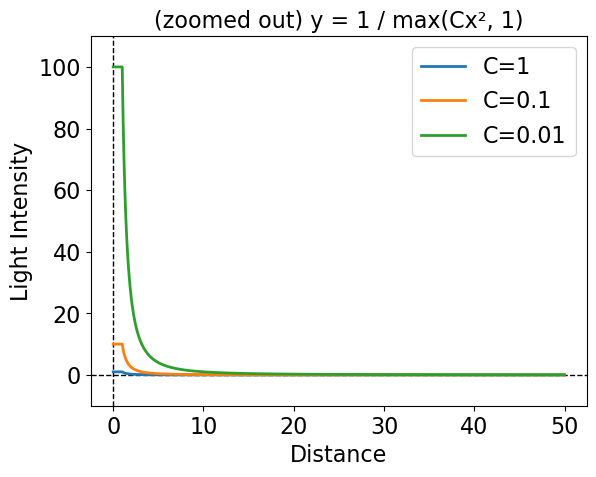
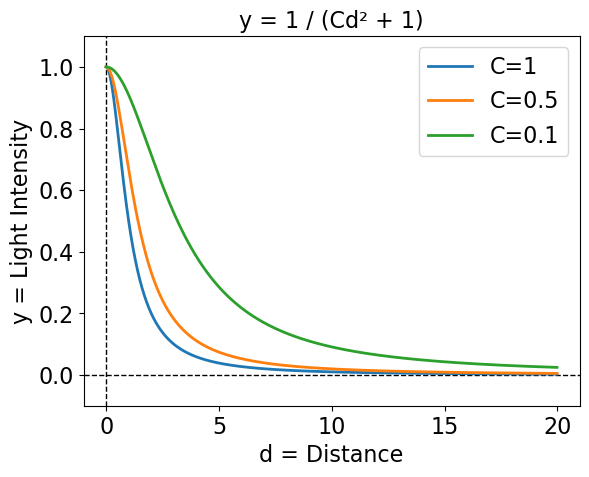
Work on lighting post

diff --git a/content/blog/fixing-a-five-year-old-lighting-bug-in-my-game-engine/index.md b/content/blog/fixing-a-five-year-old-lighting-bug-in-my-game-engine/index.md
@@ -118,20 +118,114 @@ drops off approaching 0 as the distance increases.
 
 I wanted a way of slowing down the rate with which the light diminishes so that
 it spreads out over a larger area so I added a parameter `C` which can be used
-to tune the rate with which the light diminishes, effectively stretching out the
+to tune the light diminishing rate, effectively stretching out the
 curve horizontally.
 
-![A plot of y=1/max(d², 1), where y is Light Intensity and d = Distance](plot3.png)
+![A plot of y=1/(C × max(d², 1)), where y is Light Intensity and d = Distance](plot3.png)
 
 And this was the bug. I didn't account for the fact that stretching out the
 curve horizontally would also stretch it _vertically_. Assuming the colour of
 the light is white, this will effectively clip the curve at y=1, causing
 saturation:
 
-![](plot4.png)
+![A plot of y=min(1, 1/(C × max(d², 1))), where y is Light Intensity and d = Distance](plot4.png)
 
 Visualizing with a heatmap, this has the effect of creating a large bright spot
 in the saturated region which then quickly drops off outside that region which
-matches the original symptom of this bug.
+matches the original symptom of the bug.
 
-![](map2.png)
+![A heatmap of min(1, 1/(C × max(d², 1))), where d is the distance from the
+centre and C=0.1](map2.png)
+
+My first thought for how to fix this would be stop flattening the curve below a
+distance of 1, but instead ensure that the function is defined at a distance of
+0 by _shifting_ the entire curve to the left such that it has a value of 1 at a
+distance of 0.
+
+I switched to the formula `1 / (Cd² + 1)`. Like before, `C` can be used to
+control how quickly the light diminishes. I didn't realize at the time that I
+made this change (remember I was mid game jam!) but this function changes the
+shape of the curve to be less steep around a distance of 0 as is clear in the
+following plot.
+
+![A plot of y=1/(Cd² + 1), where y is Light Intensity and d = Distance](plot5.png)
+
+Here's the new heatmap:
+
+![A heatmap of 1/(Cd² + 1), where d is the distance from the centre and
+C=0.1](map3.png)
+
+I didn't find out until revisiting the lighting maths while writing this post,
+but the shape of these curves is actually physically accurate, and I had stumbled
+upon the formula for the intensity of the light on the ground a horizontal
+distance from a light, at a fixed height. The `C` parameter controls the height
+of the light, with `C = 1/height²`.
+
+To demonstrate imagine we have a light `H` distance above the ground, and we're
+interested in finding the light intensity at a point `p` with a horizontal
+distance of `d` from the light.
+
+![Diagram showing a light `H` units above the ground, and a point `p` with a
+horizontal distance `d` from the light. A line connecting the light to `P` forms
+the hypotenuse of a triangle, labelled with `sqrt(d² + H²)`.](pythag.jpg)
+
+The line from `p` to the light is the hypotenuse of a right triangle, so the
+distance from `p` to the light is `sqrt(d² + H²)`. Now according to the inverse
+square law, the intensity of the light at `p` is proportional to `1/sqrt(d² + H²)² = 1/(d² + H²)`.
+When `d=0`, this will have the value of `1/H²` (the distance is just the height
+of the light above the ground). To match the rest of the post I'd rather the
+intensity be 1 at `d=0` so multiply the formula by `H²` to get `H²/(d² + H²)`.
+Now divide the top and bottom of this fraction by `H²` to get `1/(d²/H² + 1)`
+which is the same as `1/(Cd² + 1)` where `C = 1/H²`.
+
+The formula above was good enough for the game jam, but while working on this
+post I wanted to take things a step further. My solution was physically accurate
+for lights a given distance above the ground that shine uniformly in all
+directions, but sometimes the effect of these lights on the ground looks too
+unfocused. Occasionally I want a sharp point of light that radiates out in all
+directions, diminishing at a configurable rate. `1/d²` has the shape I want
+but it's not defined at 0, however `1/(d + 1)²` has the same shape but is
+shifted to the left such that it has the value 1 at `d=0`. To control the rate of
+diminishing, multiply `d` by the parameter `C` as before:
+
+
+![A plot of y=1/(Cd + 1)², where y is Light Intensity and d = Distance](plot6.png)
+
+The heatmap shows a much more focused point of light compared to the previous
+formula:
+
+![A heatmap of 1/(Cd + 1)², where d is the distance from the centre and C=0.1](map4.png)
+
+The final step is to combine the two different lighting formulae into a single
+formula and add a second parameter for interpolating between them.
+
+Recall that the unfocused lighting formula is `1/(d²/H² + 1)` and the focused
+formula is `1/(Cd + 1)²`. Start with the denominator of the focused formula: `(Cd + 1)²,`.
+This is equivalent to `C²d² + 2Cd + 1`, so the focused formula becomes `1/(C²d² + 2Cd + 1)`.
+Now if we replace the constant `C` with the constant expression `1/H`, the
+second formula becomes `1/(d²/H² + 2d/H + 1)` which is very similar to the
+unfocused lighting formula. The only difference is the `2d/H` term in the
+denominator. We can introduce a new parameter `F` (for "focus") and multiply it
+by that term, and then we'll be able to smoothly interpolate between the
+unfocused and focused lighting formulae by changing `F` between 0 and 1.
+The formula becomes `1/(d²/H² + 2Fd/H + 1)`, which can be made more readable by
+multiplying the top and bottom by `H²` to get `H²/(d² + 2FHd + H²)`.
+
+![A plot of y=H²/(d² + 2FHd + H²), where y is Light Intensity and d = Distance](plot7.png)
+
+So now we can use a single formula to represent both focused and unfocused
+lights, as well as everything in between.
+
+Here's a heatmap of a totally unfocused light:
+
+![A heatmap of H²/(d² + 2FHd + H²), where d is the distance from the centre. H=10, F=0](map5.png)
+
+Here's a heatmap of a partially focused light:
+
+![A heatmap of H²/(d² + 2FHd + H²), where d is the distance from the centre. H=10, F=0.5](map6.png)
+
+And here's a heatmap of a focused light:
+
+![A heatmap of H²/(d² + 2FHd + H²), where d is the distance from the centre. H=10, F=1](map7.png)
+
+## Applying the fix to existing games
